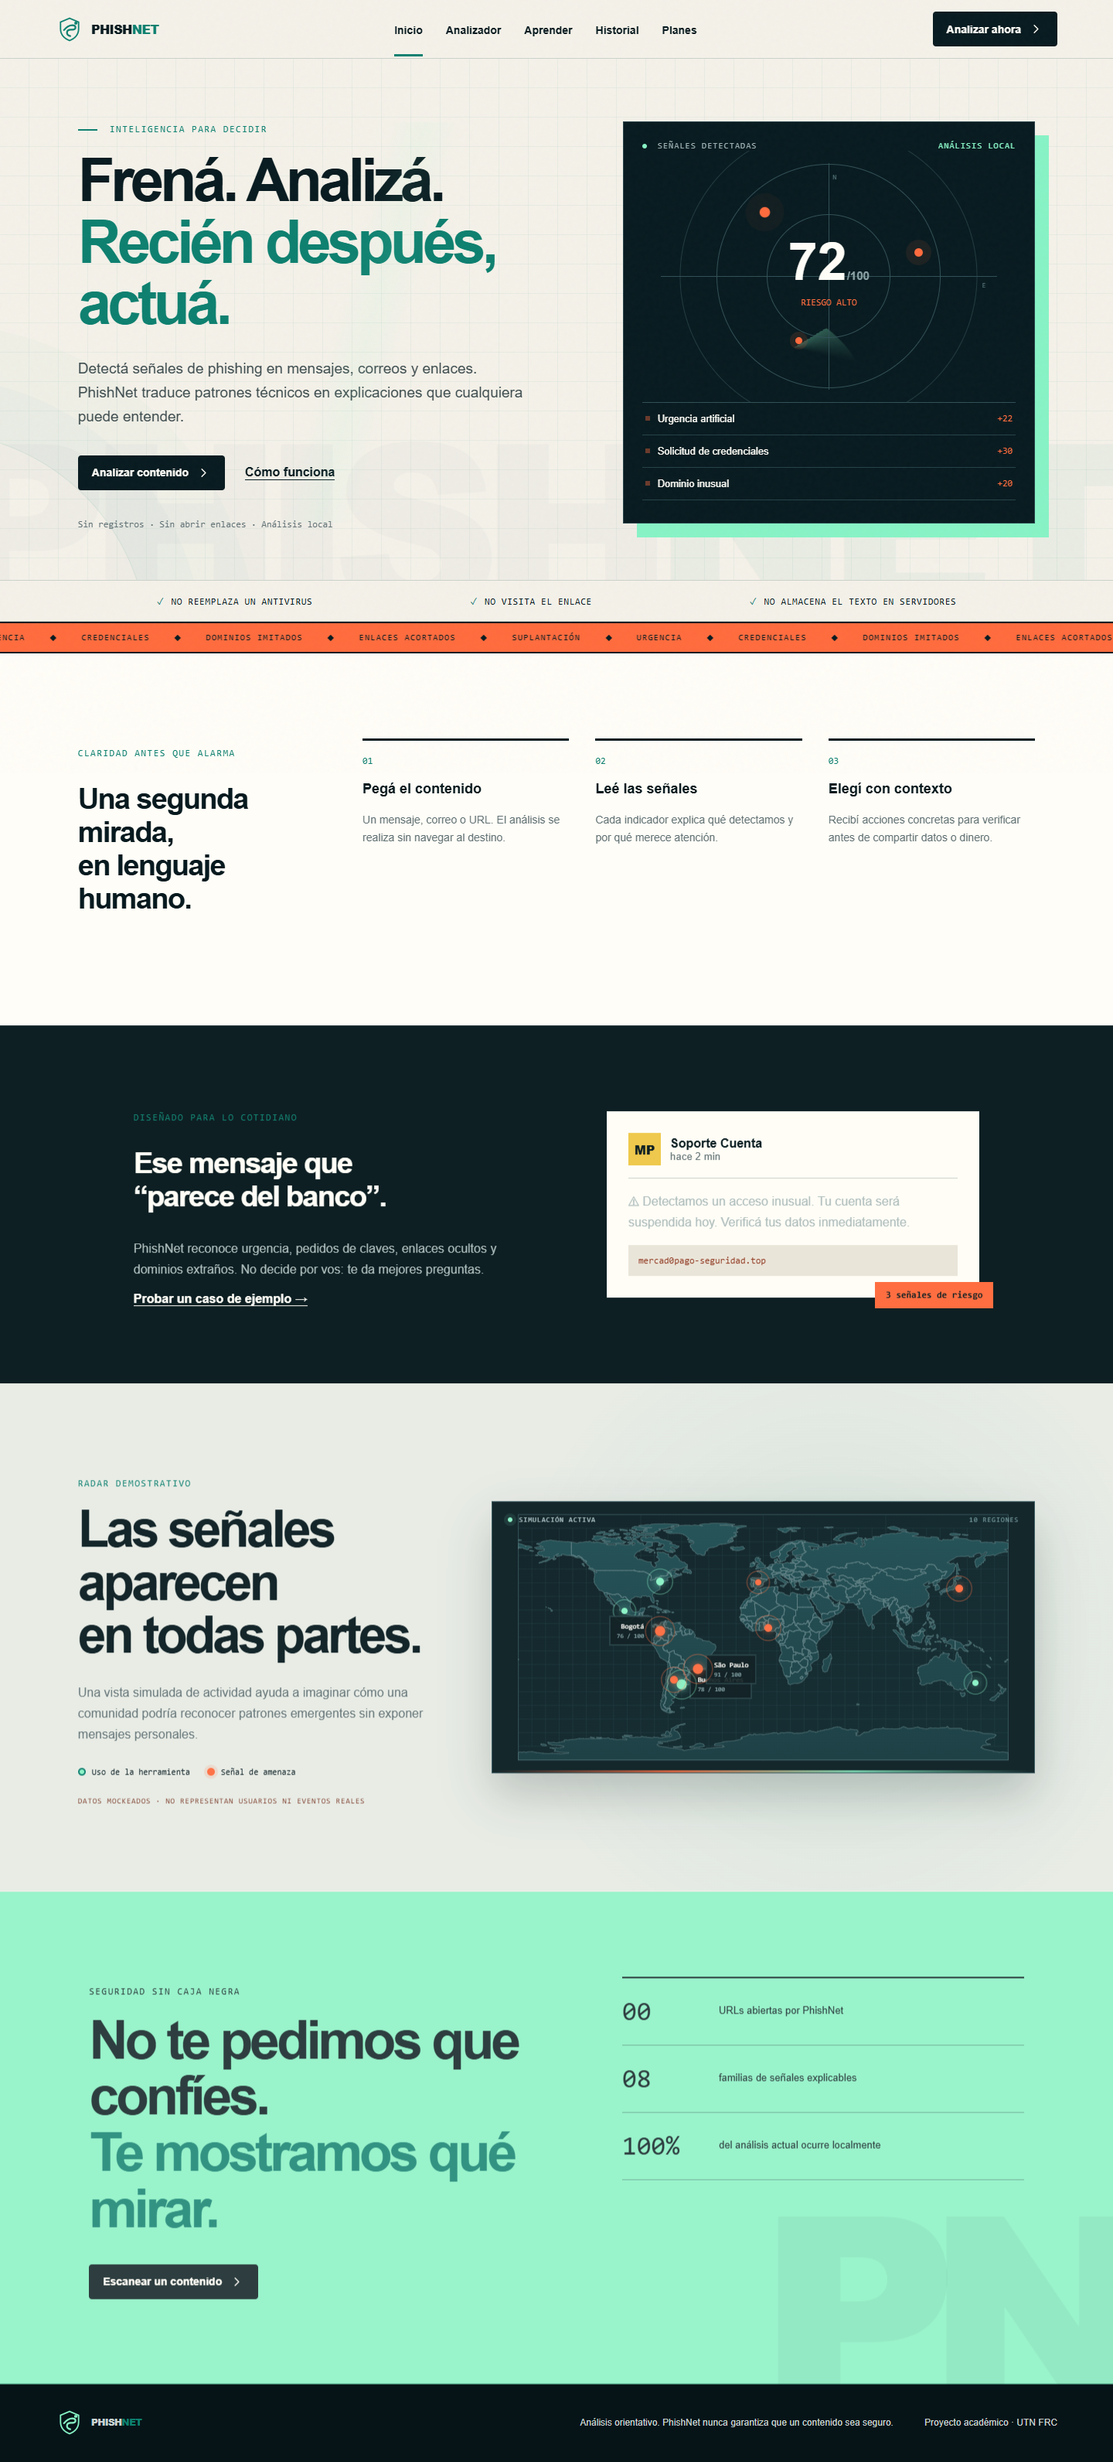
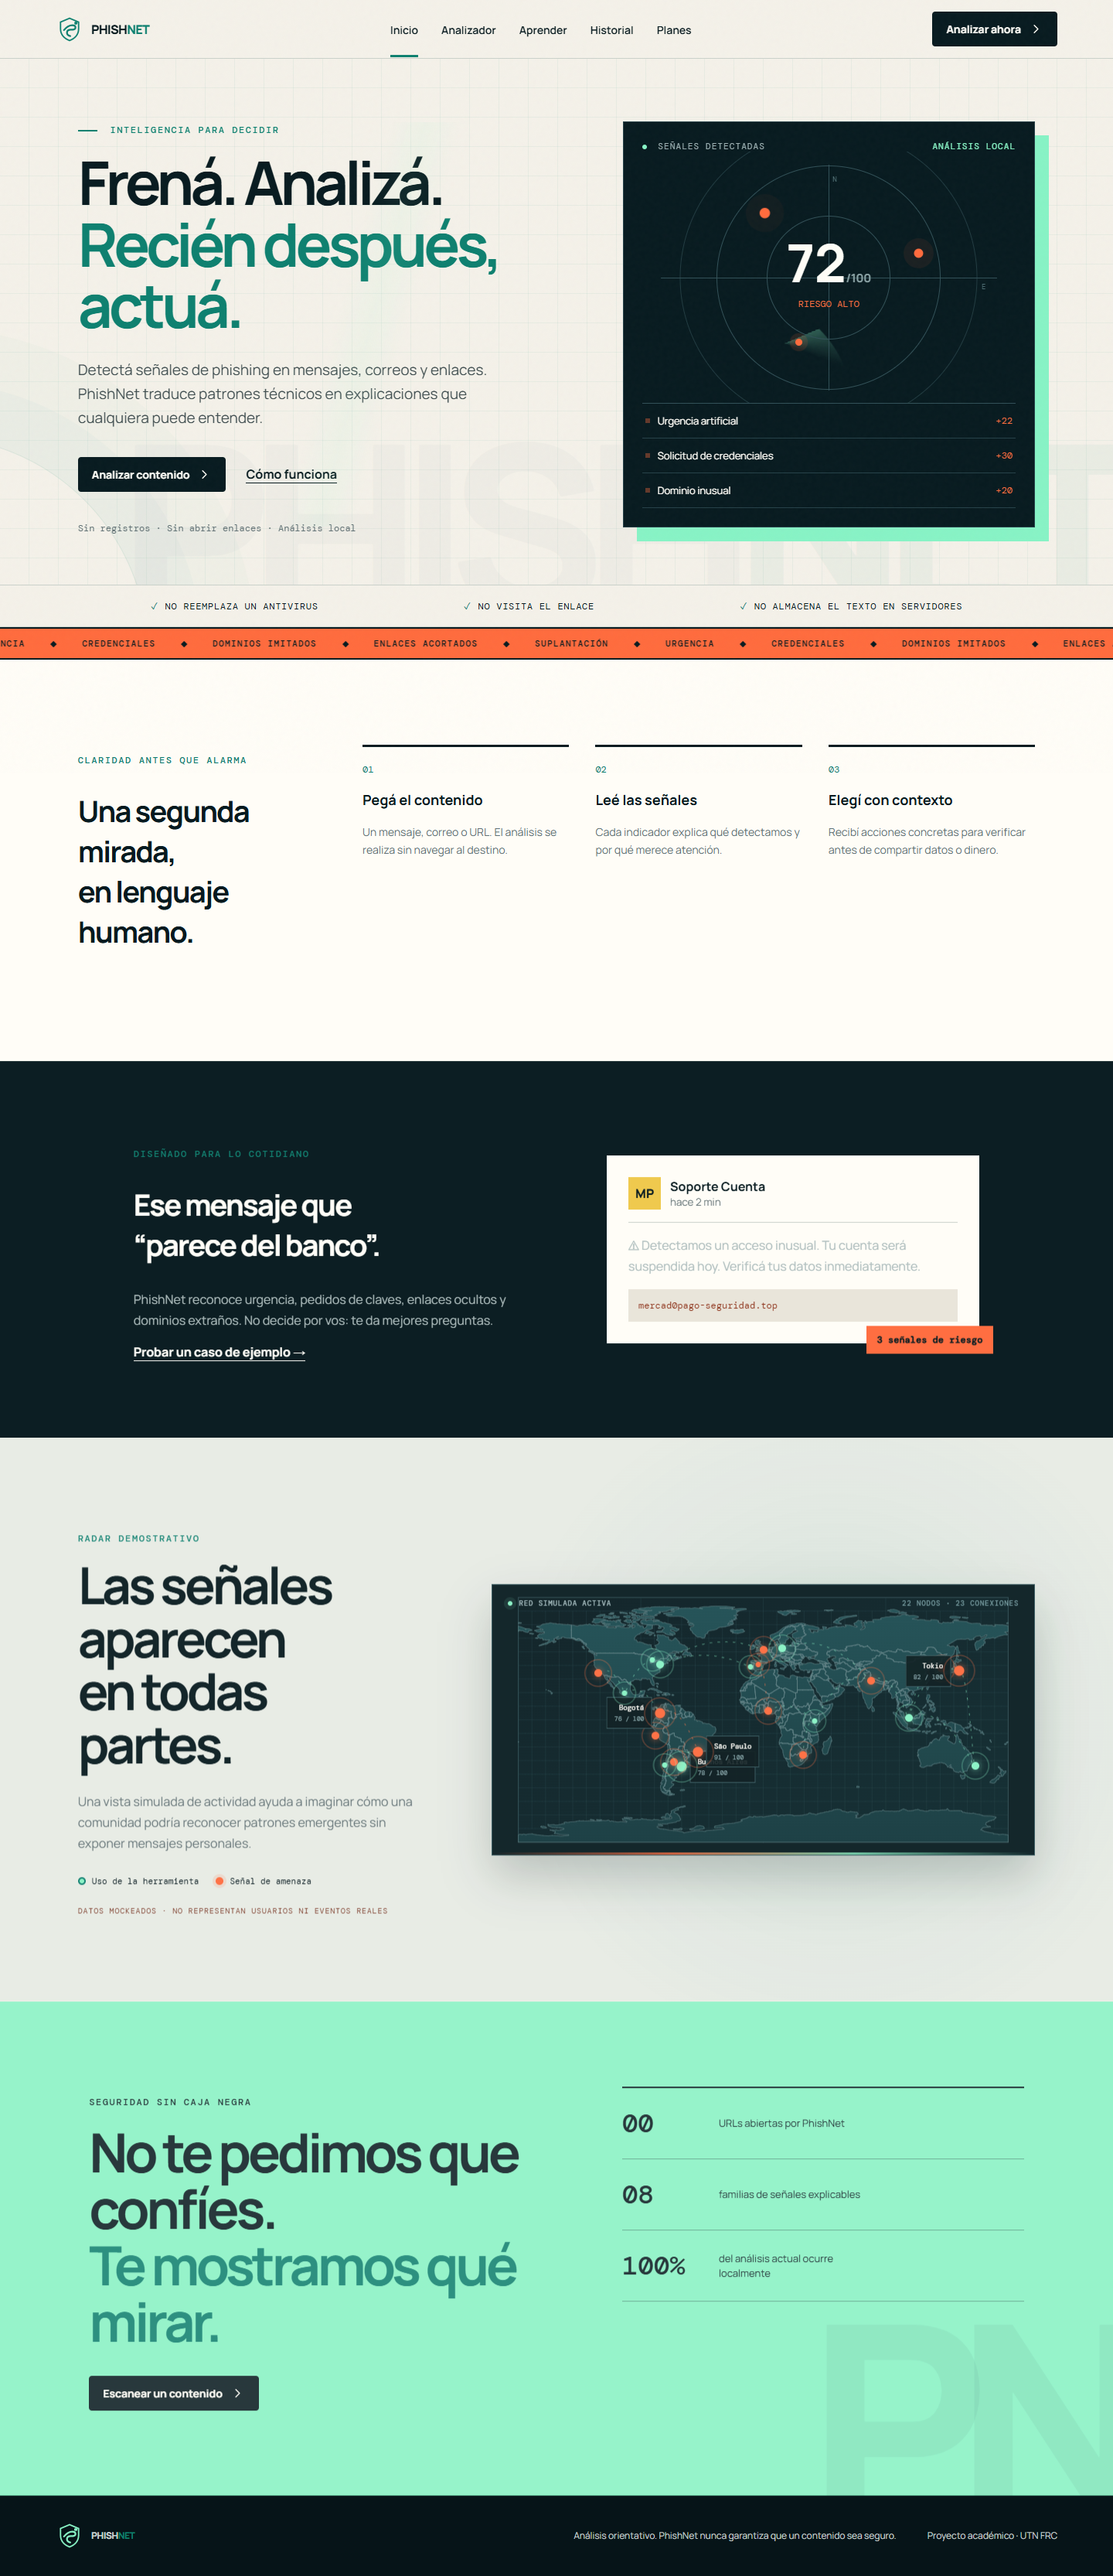
feat: add connected threat activity network

diff --git a/app/styles.css b/app/styles.css
@@ -39,6 +39,6 @@ header{transition:box-shadow .3s ease,background-color .3s ease}header:hover{box
 .screenshot-panel{display:flex;flex-direction:column;gap:14px}.dropzone{min-height:290px;border:1px dashed var(--teal);background:#eff9f3;display:grid!important;place-content:center;text-align:center;gap:10px;margin:0!important;overflow:hidden;position:relative;cursor:pointer;transition:border-color .25s ease,background .25s ease}.dropzone:hover{border-color:var(--orange);background:#fff8ee}.dropzone>svg{width:42px;margin:auto;color:var(--teal)}.dropzone>span{font:11px var(--mono);color:var(--muted)}.dropzone input{position:absolute;width:1px;height:1px;opacity:0}.dropzone.has-image{display:block!important;background:#081d22;border-style:solid}.dropzone img{width:100%;height:290px;object-fit:contain;display:block}.ocr-transcript{display:grid;gap:7px}.ocr-transcript>label{margin:0;font-size:13px}.ocr-transcript textarea{height:125px;resize:vertical}.ocr-transcript small,.local-note{font:11px var(--mono);color:var(--muted)}.ocr-progress{height:42px;background:#e7e4db;position:relative;overflow:hidden}.ocr-progress>span{display:block;height:100%;background:var(--mint);transition:width .2s ease}.ocr-progress p{position:absolute;inset:0;margin:0;display:grid;place-content:center;font:11px var(--mono)}.local-note{display:flex;align-items:center;justify-content:center;gap:7px;margin:0}.local-note svg{width:16px;color:var(--teal)}
 
 /* Mock threat and usage map. */
-.threat-map-section{display:grid;grid-template-columns:.78fr 1.22fr;gap:6vw;align-items:center;padding:110px 7vw;background:radial-gradient(circle at 75% 50%,rgba(13,128,111,.09),transparent 38%),#e8ece5;overflow:hidden}.map-copy h2{font-size:clamp(40px,5vw,66px);line-height:1.04;letter-spacing:-.06em;margin:18px 0 26px}.map-copy>p:not(.eyebrow){color:var(--muted);line-height:1.7}.map-copy>small{display:block;margin-top:25px;font:10px var(--mono);letter-spacing:.08em;color:#7b3a28}.map-legend{display:flex;gap:22px;flex-wrap:wrap;margin-top:28px;font:11px var(--mono)}.map-legend span{display:flex;align-items:center;gap:8px}.map-legend i{width:10px;height:10px;border-radius:50%}.map-legend .usage{background:var(--mint);border:2px solid var(--teal)}.map-legend .threat{background:var(--orange);box-shadow:0 0 0 4px rgba(255,107,61,.15)}.world-map{position:relative;aspect-ratio:2/1;background:#071b20;border:1px solid #34575d;box-shadow:0 28px 60px rgba(7,26,31,.22);overflow:hidden}.world-map:after{content:'';position:absolute;left:0;right:0;bottom:0;height:3px;background:linear-gradient(90deg,transparent,var(--orange),var(--mint),transparent);opacity:.8}.world-base{position:absolute;inset:0;width:100%;height:100%;display:block}.map-status{position:absolute;left:20px;top:18px;right:20px;display:flex;justify-content:space-between;align-items:center;color:#a9c1c4;font:9px var(--mono);letter-spacing:.1em;z-index:2}.map-status span{display:flex;align-items:center;gap:8px}.map-status i{width:6px;height:6px;border-radius:50%;background:var(--mint);box-shadow:0 0 0 5px rgba(135,243,197,.1)}.map-status strong{font-weight:500;color:#6f969b}.map-point{position:absolute;width:10px;height:10px;border-radius:50%;transform:translate(-50%,-50%);z-index:3}.map-point.level-low{width:8px;height:8px}.map-point.level-high{width:13px;height:13px}.map-point.uso{background:var(--mint);box-shadow:0 0 10px rgba(135,243,197,.75)}.map-point.amenaza{background:var(--orange);box-shadow:0 0 10px rgba(255,107,61,.75)}.map-point:after{content:'';position:absolute;inset:-5px;border:1px solid currentColor;border-radius:50%;opacity:.55;animation:map-pulse 2.8s ease-out infinite}.map-point.uso:after{color:var(--mint)}.map-point.amenaza:after{color:var(--orange)}.map-point b{position:absolute;left:17px;top:50%;transform:translateY(-50%);padding:7px 9px;background:rgba(5,22,26,.9);border:1px solid #34575d;color:var(--white);white-space:nowrap;font:9px var(--mono);font-weight:400;opacity:0;pointer-events:none;transition:opacity .2s ease,transform .2s ease}.map-point b span,.map-point b small{display:block}.map-point b small{color:#86a6aa;margin-top:3px;font-size:8px}.map-point.label-left b{left:auto;right:17px;text-align:right}.map-point.level-high b,.map-point:hover b{opacity:1}.map-point:hover b{transform:translateY(-50%) translateX(2px)}.map-point.label-left:hover b{transform:translateY(-50%) translateX(-2px)}@keyframes map-pulse{0%{transform:scale(.65);opacity:.7}80%,100%{transform:scale(2.5);opacity:0}}
+.threat-map-section{display:grid;grid-template-columns:.78fr 1.22fr;gap:6vw;align-items:center;padding:110px 7vw;background:radial-gradient(circle at 75% 50%,rgba(13,128,111,.09),transparent 38%),#e8ece5;overflow:hidden}.map-copy h2{font-size:clamp(40px,5vw,66px);line-height:1.04;letter-spacing:-.06em;margin:18px 0 26px}.map-copy>p:not(.eyebrow){color:var(--muted);line-height:1.7}.map-copy>small{display:block;margin-top:25px;font:10px var(--mono);letter-spacing:.08em;color:#7b3a28}.map-legend{display:flex;gap:22px;flex-wrap:wrap;margin-top:28px;font:11px var(--mono)}.map-legend span{display:flex;align-items:center;gap:8px}.map-legend i{width:10px;height:10px;border-radius:50%}.map-legend .usage{background:var(--mint);border:2px solid var(--teal)}.map-legend .threat{background:var(--orange);box-shadow:0 0 0 4px rgba(255,107,61,.15)}.world-map{position:relative;aspect-ratio:2/1;background:#071b20;border:1px solid #34575d;box-shadow:0 28px 60px rgba(7,26,31,.22);overflow:hidden}.world-map:after{content:'';position:absolute;left:0;right:0;bottom:0;height:3px;background:linear-gradient(90deg,transparent,var(--orange),var(--mint),transparent);opacity:.8}.world-base,.map-connections{position:absolute;inset:0;width:100%;height:100%;display:block}.map-connections{z-index:1;overflow:visible}.map-connections path{fill:none;stroke:rgba(135,243,197,.42);stroke-width:1.25;stroke-dasharray:3 7;vector-effect:non-scaling-stroke;animation:route-flow 4s linear infinite}.map-connections path.hot{stroke:rgba(255,107,61,.48)}@keyframes route-flow{to{stroke-dashoffset:-40}}.map-status{position:absolute;left:20px;top:18px;right:20px;display:flex;justify-content:space-between;align-items:center;color:#a9c1c4;font:9px var(--mono);letter-spacing:.1em;z-index:4}.map-status span{display:flex;align-items:center;gap:8px}.map-status i{width:6px;height:6px;border-radius:50%;background:var(--mint);box-shadow:0 0 0 5px rgba(135,243,197,.1)}.map-status strong{font-weight:500;color:#6f969b}.map-point{position:absolute;width:10px;height:10px;border-radius:50%;transform:translate(-50%,-50%);z-index:3}.map-point.level-low{width:7px;height:7px}.map-point.level-high{width:13px;height:13px}.map-point.uso{background:var(--mint);box-shadow:0 0 10px rgba(135,243,197,.75)}.map-point.amenaza{background:var(--orange);box-shadow:0 0 10px rgba(255,107,61,.75)}.map-point:after{content:'';position:absolute;inset:-5px;border:1px solid currentColor;border-radius:50%;opacity:.55;animation:map-pulse 2.8s ease-out infinite}.map-point.uso:after{color:var(--mint)}.map-point.amenaza:after{color:var(--orange)}.map-point b{position:absolute;left:17px;top:50%;transform:translateY(-50%);padding:7px 9px;background:rgba(5,22,26,.9);border:1px solid #34575d;color:var(--white);white-space:nowrap;font:9px var(--mono);font-weight:400;opacity:0;pointer-events:none;transition:opacity .2s ease,transform .2s ease}.map-point b span,.map-point b small{display:block}.map-point b small{color:#86a6aa;margin-top:3px;font-size:8px}.map-point.label-left b{left:auto;right:17px;text-align:right}.map-point.level-high b,.map-point:hover b{opacity:1}.map-point:hover b{transform:translateY(-50%) translateX(2px)}.map-point.label-left:hover b{transform:translateY(-50%) translateX(-2px)}@keyframes map-pulse{0%{transform:scale(.65);opacity:.7}80%,100%{transform:scale(2.5);opacity:0}}
 @media(max-width:900px){.source-tabs{width:100%;margin-top:32px}.source-tabs button{flex:1;padding:12px 9px}.threat-map-section{grid-template-columns:1fr;padding:75px 24px;gap:45px}.world-map{aspect-ratio:1.75/1;box-shadow:0 18px 35px rgba(7,26,31,.2)}.map-point b{display:none}.map-status{left:12px;right:12px;top:10px}.dropzone,.dropzone img{min-height:230px;height:230px}}
 @media(prefers-reduced-motion:reduce){.map-point{animation:none}}

diff --git a/app/App.tsx b/app/App.tsx
@@ -59,9 +59,25 @@ function Landing(){return <>
   </>}
 
 function ThreatMap(){
-  const points:[string,'uso'|'amenaza',number,number,number,string,'left'|'right'][]=[['Buenos Aires','uso',-58.38,-34.6,78,'0s','right'],['Córdoba','amenaza',-64.18,-31.42,64,'.5s','left'],['São Paulo','amenaza',-46.63,-23.55,91,'1.1s','right'],['Ciudad de México','uso',-99.13,19.43,54,'.8s','right'],['Madrid','amenaza',-3.7,40.42,48,'1.5s','right'],['Bogotá','amenaza',-74.07,4.71,76,'1.9s','left'],['Nueva York','uso',-74,40.71,62,'2.2s','right'],['Tokio','amenaza',139.69,35.68,70,'2.6s','left'],['Lagos','amenaza',3.38,6.52,58,'1.3s','right'],['Sídney','uso',151.21,-33.87,42,'2.1s','left']]
-  const project=(longitude:number,latitude:number)=>({left:`${((42+(longitude+180)/360*1116)/1200*100).toFixed(2)}%`,top:`${((28+(90-latitude)/180*544)/600*100).toFixed(2)}%`})
-  return <section className="threat-map-section" data-reveal><div className="map-copy"><p className="eyebrow">RADAR DEMOSTRATIVO</p><h2>Las señales aparecen<br/>en todas partes.</h2><p>Una vista simulada de actividad ayuda a imaginar cómo una comunidad podría reconocer patrones emergentes sin exponer mensajes personales.</p><div className="map-legend"><span><i className="usage"/> Uso de la herramienta</span><span><i className="threat"/> Señal de amenaza</span></div><small>DATOS MOCKEADOS · NO REPRESENTAN USUARIOS NI EVENTOS REALES</small></div><div className="world-map" role="img" aria-label="Mapa mundial detallado con puntos simulados de uso y señales de amenazas"><img className="world-base" src="/world-map.svg" alt="" aria-hidden="true"/><div className="map-status"><span><i/> SIMULACIÓN ACTIVA</span><strong>10 REGIONES</strong></div>{points.map(([label,type,longitude,latitude,intensity,delay,side])=><span key={label} className={`map-point ${type} level-${intensity>=75?'high':intensity>=55?'medium':'low'} label-${side}`} style={{...project(longitude,latitude),animationDelay:delay}} aria-label={`${label}: intensidad demostrativa ${intensity} de 100`}><b><span>{label}</span><small>{intensity} / 100</small></b></span>)}</div></section>
+  type Point={label:string,type:'uso'|'amenaza',longitude:number,latitude:number,intensity:number,side:'left'|'right'}
+  const points:Point[]=[
+    {label:'Buenos Aires',type:'uso',longitude:-58.38,latitude:-34.6,intensity:78,side:'right'}, {label:'Córdoba',type:'amenaza',longitude:-64.18,latitude:-31.42,intensity:64,side:'left'},
+    {label:'São Paulo',type:'amenaza',longitude:-46.63,latitude:-23.55,intensity:91,side:'right'}, {label:'Santiago',type:'uso',longitude:-70.67,latitude:-33.45,intensity:49,side:'left'},
+    {label:'Lima',type:'amenaza',longitude:-77.04,latitude:-12.05,intensity:61,side:'left'}, {label:'Bogotá',type:'amenaza',longitude:-74.07,latitude:4.71,intensity:76,side:'left'},
+    {label:'Ciudad de México',type:'uso',longitude:-99.13,latitude:19.43,intensity:54,side:'right'}, {label:'Los Ángeles',type:'amenaza',longitude:-118.24,latitude:34.05,intensity:59,side:'right'},
+    {label:'Toronto',type:'uso',longitude:-79.38,latitude:43.65,intensity:47,side:'left'}, {label:'Nueva York',type:'uso',longitude:-74,latitude:40.71,intensity:68,side:'right'},
+    {label:'Lisboa',type:'uso',longitude:-9.14,latitude:38.72,intensity:43,side:'left'}, {label:'Madrid',type:'amenaza',longitude:-3.7,latitude:40.42,intensity:52,side:'right'},
+    {label:'Londres',type:'amenaza',longitude:-.13,latitude:51.51,intensity:66,side:'left'}, {label:'Berlín',type:'uso',longitude:13.4,latitude:52.52,intensity:58,side:'right'},
+    {label:'Lagos',type:'amenaza',longitude:3.38,latitude:6.52,intensity:63,side:'left'}, {label:'Nairobi',type:'uso',longitude:36.82,latitude:-1.29,intensity:46,side:'right'},
+    {label:'Johannesburgo',type:'amenaza',longitude:28.05,latitude:-26.2,intensity:57,side:'left'}, {label:'Delhi',type:'amenaza',longitude:77.1,latitude:28.7,intensity:72,side:'right'},
+    {label:'Singapur',type:'uso',longitude:103.82,latitude:1.35,intensity:69,side:'left'}, {label:'Seúl',type:'amenaza',longitude:126.98,latitude:37.57,intensity:62,side:'left'},
+    {label:'Tokio',type:'amenaza',longitude:139.69,latitude:35.68,intensity:82,side:'left'}, {label:'Sídney',type:'uso',longitude:151.21,latitude:-33.87,intensity:55,side:'left'}
+  ]
+  const routes=[[0,2],[0,3],[2,5],[5,6],[6,7],[6,9],[8,9],[9,10],[9,12],[10,11],[11,12],[11,14],[12,13],[13,17],[14,15],[15,16],[15,17],[17,18],[18,19],[18,20],[18,21],[19,20],[20,21]]
+  const xy=(point:Point)=>({x:42+(point.longitude+180)/360*1116,y:28+(90-point.latitude)/180*544})
+  const project=(point:Point)=>({left:`${(xy(point).x/12).toFixed(2)}%`,top:`${(xy(point).y/6).toFixed(2)}%`})
+  const routePath=(from:Point,to:Point)=>{const a=xy(from),b=xy(to),lift=Math.min(70,Math.abs(b.x-a.x)*.13+18);return `M ${a.x} ${a.y} Q ${(a.x+b.x)/2} ${Math.min(a.y,b.y)-lift} ${b.x} ${b.y}`}
+  return <section className="threat-map-section" data-reveal><div className="map-copy"><p className="eyebrow">RADAR DEMOSTRATIVO</p><h2>Las señales aparecen<br/>en todas partes.</h2><p>Una vista simulada de actividad ayuda a imaginar cómo una comunidad podría reconocer patrones emergentes sin exponer mensajes personales.</p><div className="map-legend"><span><i className="usage"/> Uso de la herramienta</span><span><i className="threat"/> Señal de amenaza</span></div><small>DATOS MOCKEADOS · NO REPRESENTAN USUARIOS NI EVENTOS REALES</small></div><div className="world-map" role="img" aria-label="Mapa mundial detallado con una red simulada de uso y señales de amenazas"><img className="world-base" src="/world-map.svg" alt="" aria-hidden="true"/><svg className="map-connections" viewBox="0 0 1200 600" aria-hidden="true">{routes.map(([from,to],index)=><path key={`${from}-${to}`} d={routePath(points[from],points[to])} className={points[from].type==='amenaza'&&points[to].type==='amenaza'?'hot':''} style={{animationDelay:`${index*.11}s`}}/>)}</svg><div className="map-status"><span><i/> RED SIMULADA ACTIVA</span><strong>{points.length} NODOS · {routes.length} CONEXIONES</strong></div>{points.map((point,index)=><span key={point.label} className={`map-point ${point.type} level-${point.intensity>=75?'high':point.intensity>=55?'medium':'low'} label-${point.side}`} style={{...project(point),animationDelay:`${(index%8)*.34}s`}} aria-label={`${point.label}: intensidad demostrativa ${point.intensity} de 100`}><b><span>{point.label}</span><small>{point.intensity} / 100</small></b></span>)}</div></section>
 }
 
 function Analyzer({onSave}:{onSave:(r:Analysis,i:string,s:InputSource)=>void}){
